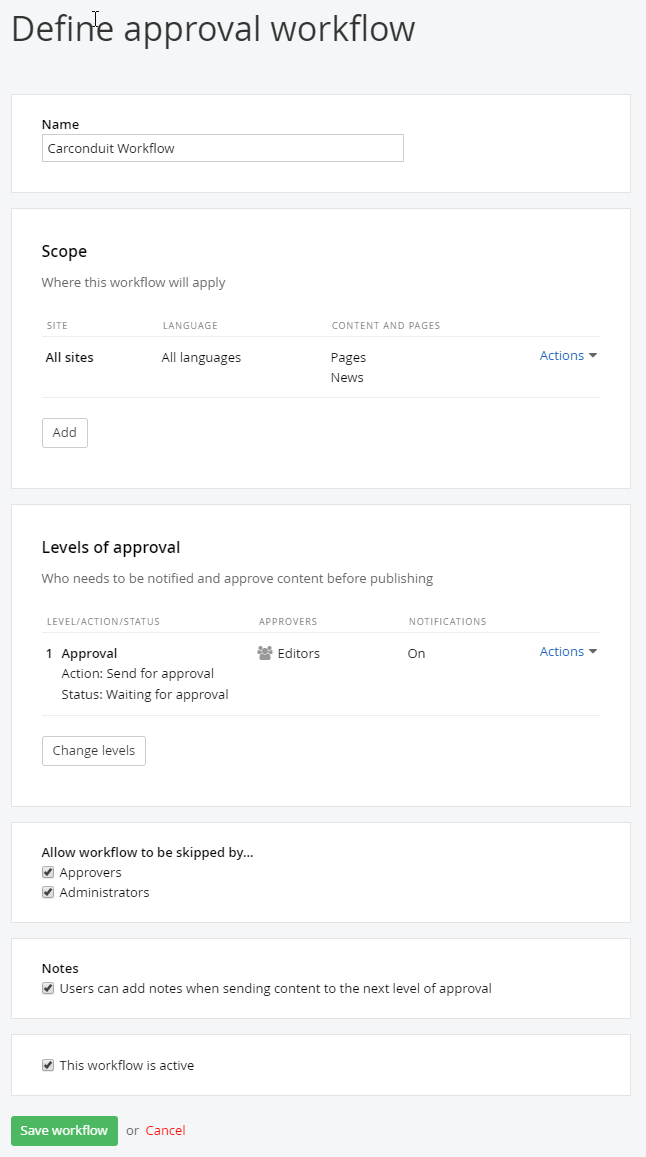
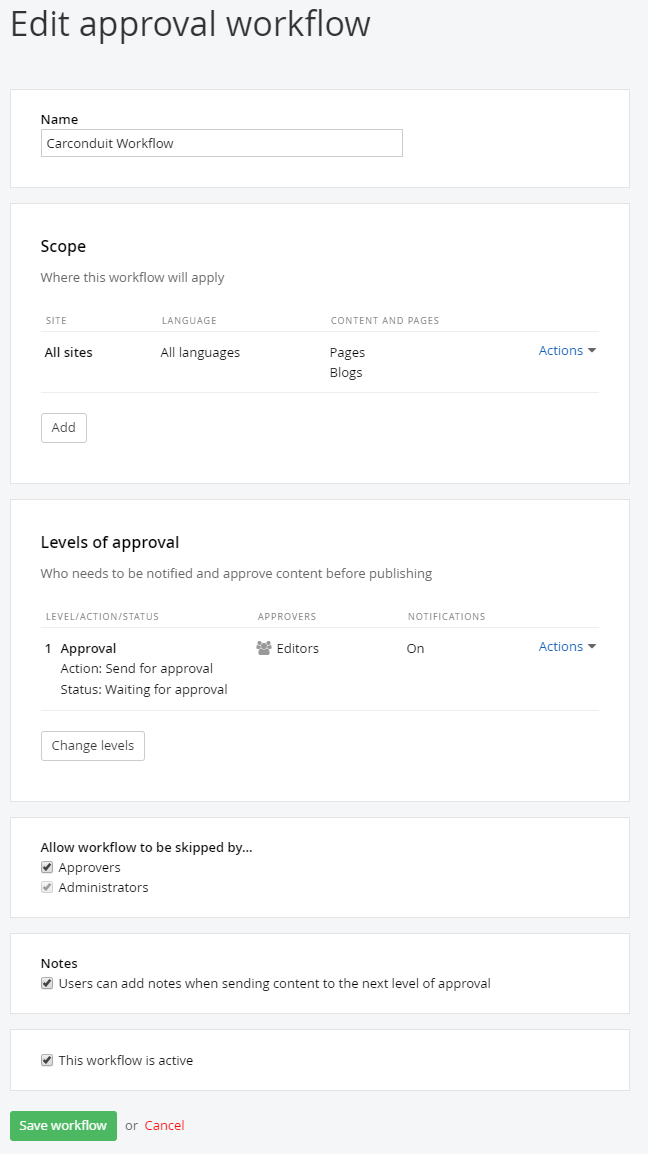
Update

diff --git a/Workflow/readme.md b/Workflow/readme.md
@@ -24,7 +24,7 @@ when a document is awaiting approval.
 
 ![](../media/image48.png)
 
-4.  The *Scope* section defines where the workflow will apply. Choose **Page** and **Blogs**. This means that the workflow will be triggered anytime the save button is clicked for any page or nes item. The remaining workflow options can be left with default values.
+4.  The *Scope* section defines where the workflow will apply. Choose **Pages** and **Blogs**. This means that the workflow will be triggered anytime the save button is clicked for any page or news item. The remaining workflow options can be left with default values.
 
 ![](../media/image52.png)
 
@@ -37,13 +37,13 @@ when a document is awaiting approval.
  
 ![](../media/image48B.png)
 
-6.  Click the *Next:Set approvers* button.
+6.  Click the **Next:Set approvers** button.
 
-7.  Choose the **editors** group to be able to approve content
+7.  Choose the **Editors** group to be able to approve content
 
 ![](../media/image49.png)
 
-8. Save the role.
+8. Click on Done.
 
 **Note**: The *Allow administrators to skip the workflow* option is
 recommended so that you don\'t have to slog through the approval
@@ -64,50 +64,26 @@ Testing the Workflow
 
 3.  Click the *Save Draft* button (notice that there is no *Publish* button).
 
-4.  Click the new *Send for Approval* button. Now the list of blog posts
-    shows a new status indicating the content is waiting on approval. A
-    user with an editor or administrator role can publish the content.
+4.  Click the new *Send for Approval* button. 
 
 ![](../media/image53.png)
 
-#### Site Management Notes on Upgrading
+5. You will have a chance to enter a note to the approver before the request is sent.
 
-The [Sitefinity documentation on
-upgrading](http://www.sitefinity.com/documentation/documentationarticles/installation-and-administration-guide/upgrade)
-details how to upgrade from Sitefinity 3.7 (and even earlier) to the
-present release of Sitefinity. Many of these instructions center on
-the Upgrade option on the right-click menu of the Project Manager. The
-catch is that the upgrade option will wipe out the Visual Studio
-project file to the default settings and the web configuration file
-also gets set back to its "vanilla" settings. If there is the
-slightest customization, non-standard references, or web configuration
-file changes in your Sitefinity project, these customizations can get
-lost by taking the upgrade menu option.
+![](../media/image53B.png)
 
-You can manually merge the Visual Studio project file (.csproj) web
-configuration (web.config) by comparing the files located in the
-Sitefinity installation directory under
+6. Now the list of blog posts shows a new status indicating the content is waiting on approval. A user with an editor or administrator role can publish the content.
 
-\_EmptyProject against your site. The \_EmptyProject files are used to
-create new sites. By comparing your site with the \_EmptyProject you
-can see how the site has been customized since it was created. You can
-use any source comparison tool to compare the project and web config
-files.
+![](../media/image53C.png)
+
 
 Notes on Deployment
+-------------------
 
 The [Sitefinity documentation on
 deployment](http://www.sitefinity.com/documentation/documentationarticles/installation-and-administration-guide/deployment)
 details how to move your Sitefinity application to a production
-server. In addition, be sure not to overwrite the app\_data folder or
-the database in production. These are live and constantly changing.
-With changes happening every second, overwriting the database can
-cause the database to become corrupt. Even when deploying code files
-to the app\_data folder, the database is being updated.
-
-When deploying, zip the project except for the app\_data folder and
-then overwrite the production files. You should merge the web.config
-manually, just as you would with any .NET application.
+server. 
 
 #### Continuous Delivery
 
@@ -140,12 +116,12 @@ the production server will automatically detect and apply the changes.
 
 The Site Sync module automatically copies content from one site to
 another. For example, if you have a live server and staging server you
-can refresh the staging server with live data. Both servers should be
+can refresh the Live server with Staging data. Both servers should be
 running the same version of Sitefinity with the same licensing.
 
 In the example that follows we have two sites named Site1 and Site2
 configured to run in IIS. There is an administrative user in each
-project called SiteSyncIUser1 and SiteSyncUser2, respectively. You can
+project called SiteSyncUser1 and SiteSyncUser2, respectively. You can
 setup both sites side-by-side. Site1 will be configured to send data
 to Site2.
 
@@ -153,26 +129,22 @@ to Site2.
 
 1.  The projects should be hosted in IIS. Configure the Sitefinity
     projects to work in your version of IIS using the steps in the
-    documentation foun[d
-    here.](http://www.sitefinity.com/documentation/documentationarticles/installation-and-administration-guide/install-sitefinity/configuring-the-iis-to-host-sitefinity-projects)
+    documentation found [here.](http://www.sitefinity.com/documentation/documentationarticles/installation-and-administration-guide/install-sitefinity/configuring-the-iis-to-host-sitefinity-projects)
 
 2.  Run both sites and login to the backend of each.
 
 3.  By default, site synchronization is not installed or active so your
     first step will be to select the Administration \> Modules &
     Services menu option. Click the Install option in the Actions menu
-    of the Staging and Syncing item. Do this for both sites.
+    of the **Site Sync** item. Do this for both sites.
 
 ![](../media/image54.jpeg)
 
-4.  [Create a new user](#Creating_a_User) from the *Administration \>
-    Users* menu option. This user will only be used for site
-    synchronization and will never be logged in. The user should have
-    the Administrator role. Do this for both sites and make the name
-    unique for each site, e.g. SiteSyncIUser1 and SiteSyncUser2.
+4.  Create a new user from the *Administration \> Users* menu option. This user will only be used for site
+    synchronization and will never be logged in. The user should have the Administrator role. Do this for both sites and make the name
+    unique for each site, e.g. SiteSyncUser1 and SiteSyncUser2.
 
-5.  Now select the new menu item *Administration \> Staging and Syncing*
-    for both sites.
+5.  Now select the new menu item *Administration \> Site Sync* for both sites.
 
 ![](../media/image56.png)
 
